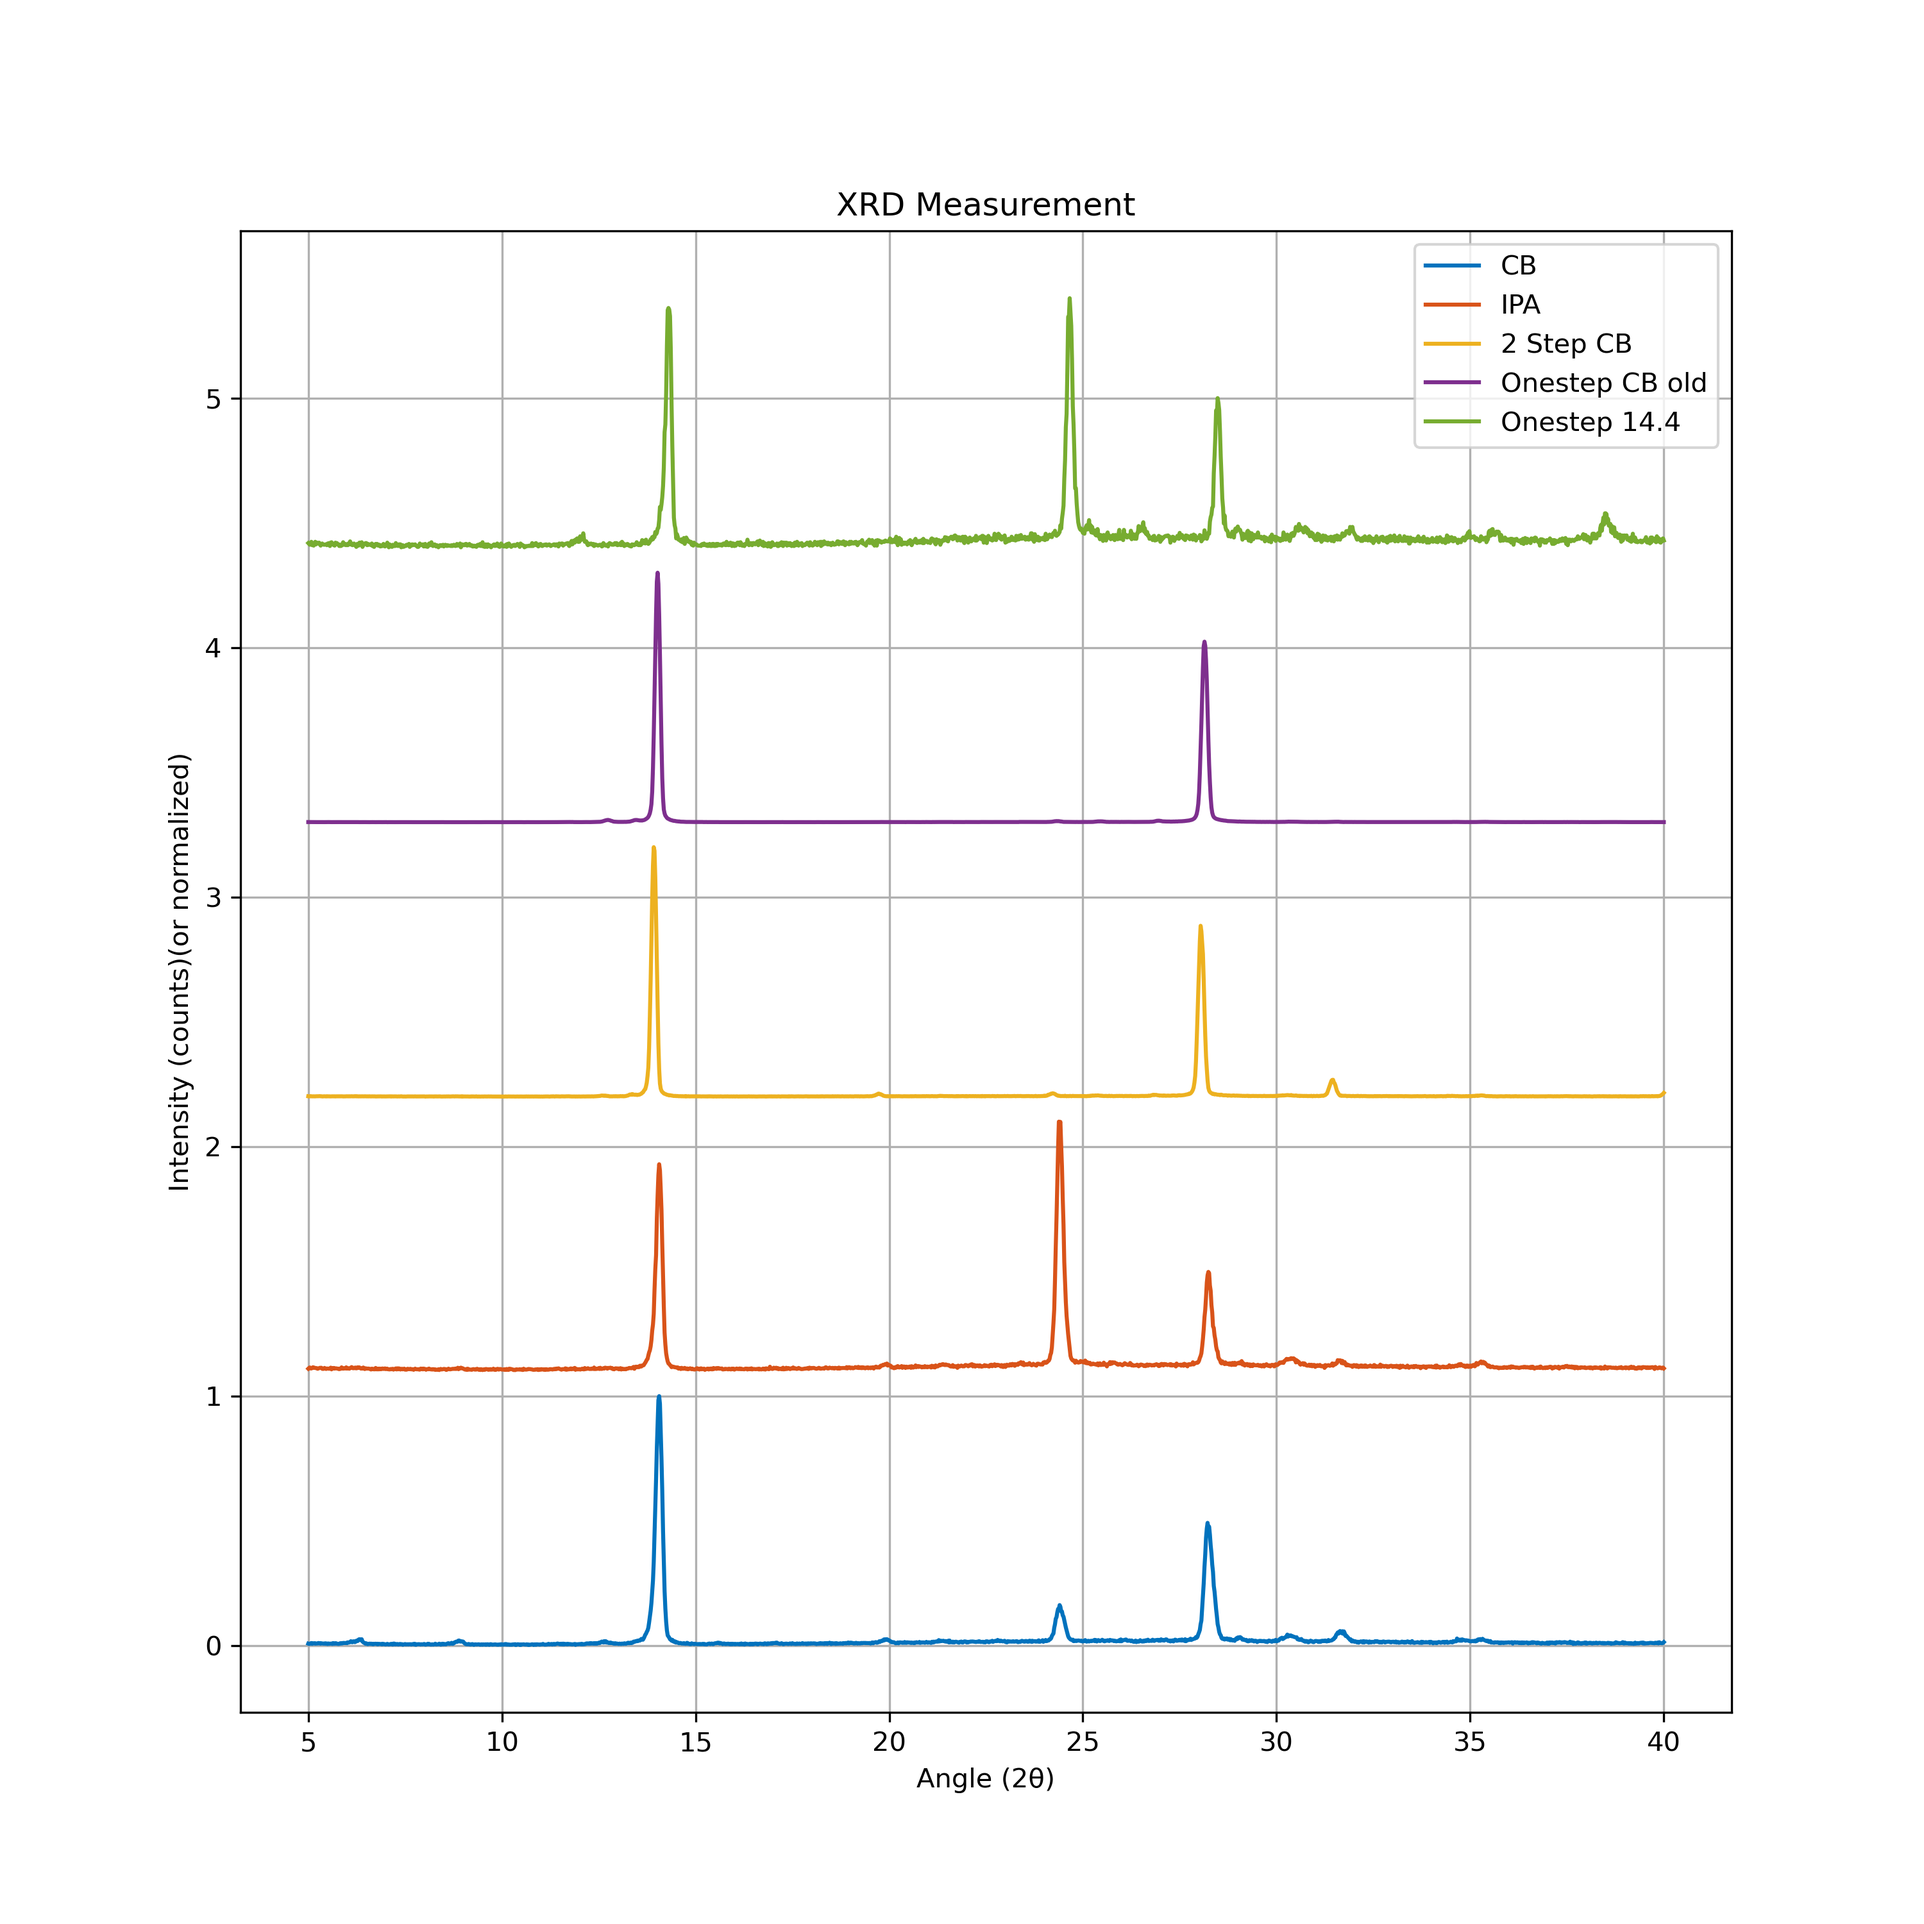
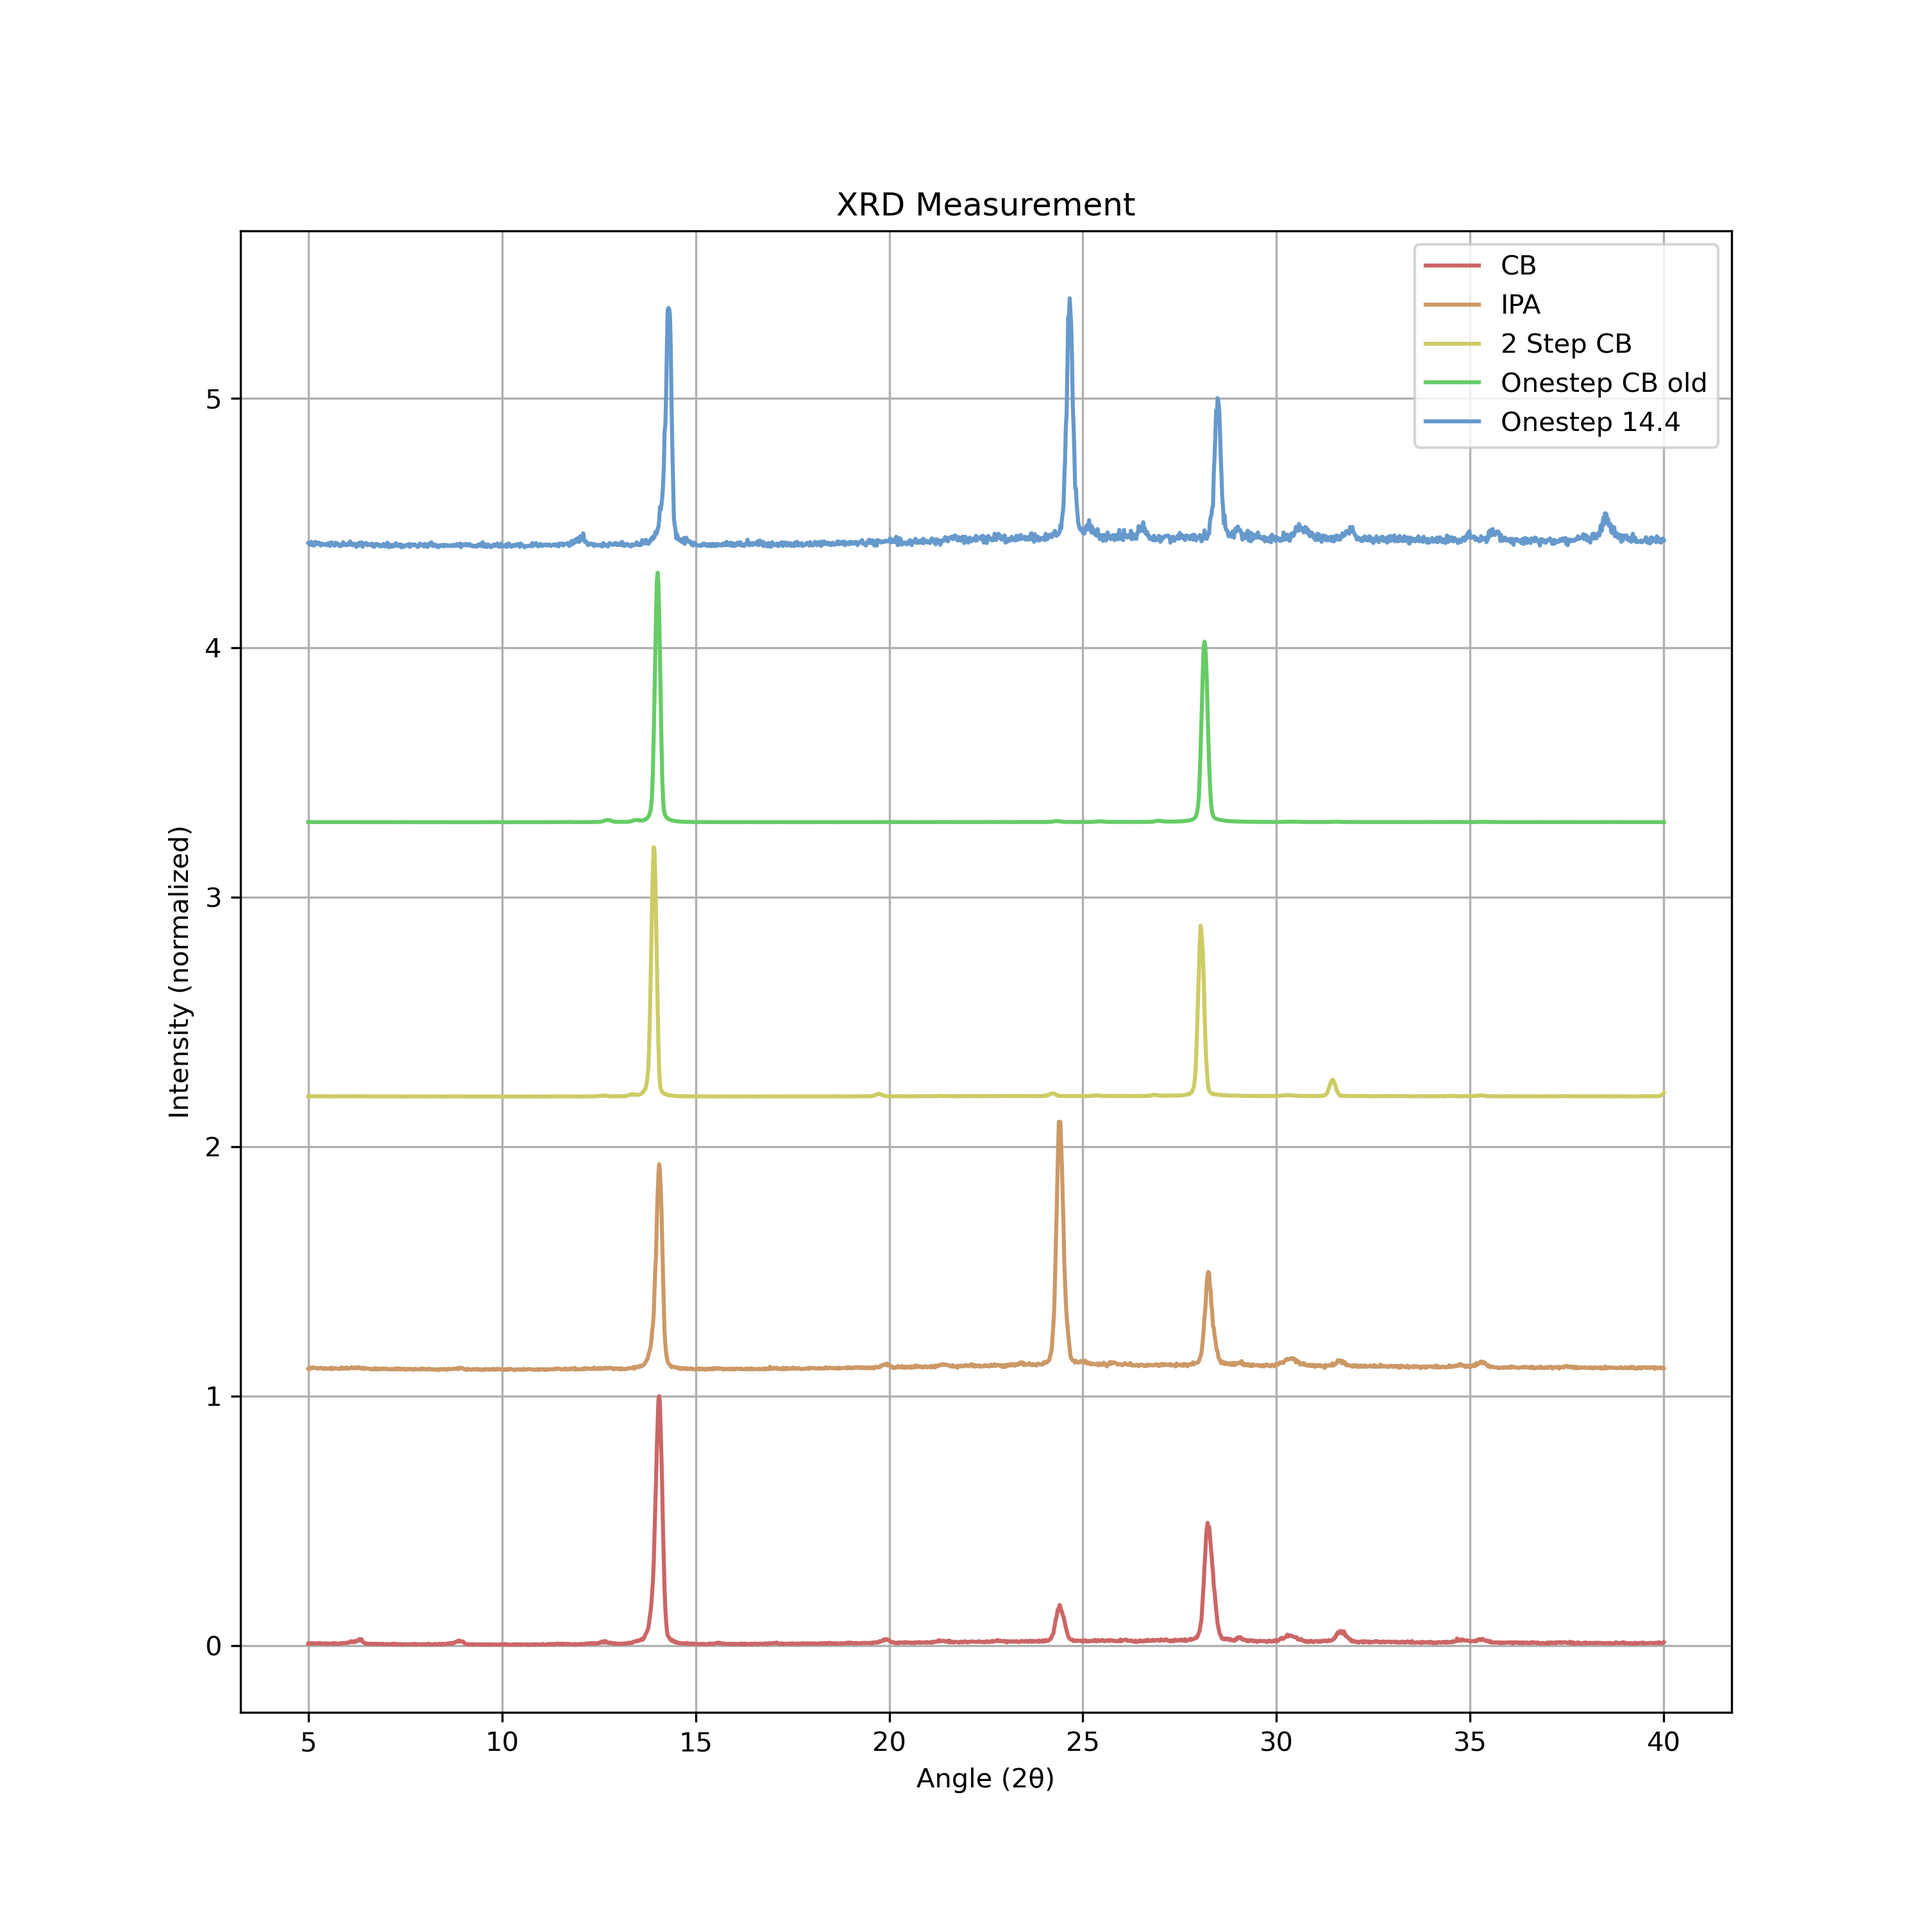
Improved the SolSim analyzer, which could mimic the ts.py
Box plot and histogram are coming soon

diff --git a/plot_module/solsim_analyzer.py b/plot_module/solsim_analyzer.py
@@ -3,6 +3,7 @@ import numpy as np
 import matplotlib.pyplot as plt
 import os
 from colors import color
+import pandas as pd
 
 class solarSimulator:
     def __init__(self, filePath=None, folderPath = None, CSV = None):
@@ -10,53 +11,154 @@ class solarSimulator:
         self.folderPath = folderPath
         self.CSV = CSV
         self.data = None
-        self.dataT = None
+        self.currents = None
+        self.CDC = 1000/0.0966
+        self.voltages = None
+        self.powers = None
+        self.times = None
+        #self.counter = 0
         self.dat_files = None
-        self.counter = 0
+        self.labels = []
+        #Important Points in solSim:
+        self.Voc = None
+        self.Isc = None
+        self.I_MPP = None
+        self.V_MPP = None
+        self.FF = None
+        self.PCE = None
+        self.intensity = 100*36.5/47.98 #Unit: mW/cm^2
+
+    def calcIsc(self, voltage, current):
+        idx = np.argmin(np.abs(voltage))
+        Isc = current[idx]
+        return Isc
+    
+    def calcVoc(self, voltage, current):
+        idx = np.argmin(np.abs(current))
+        Voc = voltage[idx]
+        return Voc
+
+    def calcMPP(self, current, voltage):
+        Isc = self.calcIsc(voltage = voltage, current = current)
+        Voc = self.calcVoc(voltage=voltage, current=current)
+        mask = (current >=0 ) & (current <= Isc)
+        V = voltage[mask]
+        I = current[mask]
+        P = V * I
+        idx = np.argmax(np.abs(P))
+        I_MPP = I[idx] #Unit: Current density mA/cm^2
+        V_MPP = V[idx] #Unit: V
+        P_MPP = P[idx] #mW/cm^2
+        FF = np.abs((I_MPP*V_MPP)/(Isc*Voc))
+        PCE = np.abs(P_MPP/self.intensity)*100
+        return I_MPP, V_MPP, FF, PCE
 
     def loadFileData(self): #Automatically detect the file type!
         files = pd.read_csv(self.filePath, skiprows=range(0, 21), header=None, names=['voltage', 'current', 'power', 'time'], sep='\s+')
-        data = np.asarray(files)
-        data = data.T
+        self.data = np.asarray(files)
+        self.data = self.data.T
+        self.voltages = self.data[0]
+        self.currents = self.data[1]* self.CDC
+        self.powers = self.data[2]
+        self.times = self.data[3]
+        self.Isc = self.calcIsc(voltage = self.voltages, current = self.currents)
+        self.Voc = self.calcVoc(voltage=self.voltages, current = self.currents)
+        self.I_MPP, self.V_MPP, self.FF, self.PCE = self.calcMPP(voltage=self.voltages, current = self.currents)
+        self.labels = self.filePath
 
     def loadFolderData(self):
+        #if self.folderPath is None:
+        #    self.loadFileData()
         self.dat_files = [f for f in os.listdir(self.folderPath) if f.endswith('.dat')]
+        self.Isc, self.Voc, self.I_MPP, self.V_MPP, self.FF, self.PCE = [[] for _ in range(6)]
+        for name in self.dat_files:
+            file = os.path.join(self.folderPath, name)
+            labelName = name
+            files = pd.read_csv(file, skiprows=range(0, 21), header=None, names=['voltage', 'current', 'power', 'time'], sep='\s+')
+            if self.currents is None:
+                self.data = np.asarray(files)
+                self.data = self.data.T
+                self.voltages = self.data[0].reshape(1, -1)
+                self.currents = self.data[1].reshape(1, -1) * self.CDC # Convert the current to current density
+                self.powers = self.data[2].reshape(1, -1)
+                self.times = self.data[3].reshape(1, -1)
+                self.labels.append (labelName)
+                #Calculations:                
+                Isc = self.calcIsc(voltage = self.data[0], current=self.data[1])
+                Voc = self.calcVoc(voltage = self.data[0], current=self.data[1])                   
+                I_MPP, V_MPP, FF, PCE = self.calcMPP(voltage = self.data[0], current=self.data[1]*self.CDC)
+            else:
+                data = np.asarray(files)
+                data = data.T
+                
+                self.data = np.vstack((self.data, data))
+                self.voltages = np.vstack((self.voltages, data[0]))
+                self.currents = np.vstack((self.currents, data[1]*self.CDC))
+                self.powers = np.vstack((self.powers, data[2]))
+                self.times = np.vstack((self.times, data[3]))
+                self.labels.append(labelName)
+                #Calculation for cell data:
+                Isc = self.calcIsc(voltage = data[0], current=data[1]*self.CDC)
+                Voc = self.calcVoc(voltage = data[0], current=data[1]*self.CDC)
+                I_MPP, V_MPP, FF, PCE = self.calcMPP(voltage = data[0], current=data[1]*self.CDC)
+            self.Isc.append(Isc)
+            self.Voc.append(Voc)
+            self.I_MPP.append(I_MPP)
+            self.V_MPP.append(V_MPP)
+            self.FF.append(FF)
+            self.PCE.append(PCE)
 
-    def IVCurve(self, saveName = "saveFig.png", colorMode = color.matlab()):
+    def logData(self):
+        fileName = "result_log.csv"
+        dir = self.folderPath
+        target = os.path.join(dir, fileName)
+        data = {
+            'Cell Label':  self.labels,
+            'Isc [mA/cm2]':    self.Isc,
+            'Voc [V]':    self.Voc,
+            'I_MPP':  self.I_MPP,
+            'V_MPP':  self.V_MPP,
+            'FF':     self.FF,
+            'PCE':    self.PCE
+        }
+        df = pd.DataFrame(data)
+        df.to_csv(target, index=False)
+
+    def IVCurve(self, saveName = "saveFig.png", colorMode = "red"):
         voltage = self.data[0]
-        current = -self.data[1]
+        current = self.data[1]
         power = self.data[2]
         time = self.data[3]
         colorUsed = colorMode
         plt.figure(figsize=(7, 5), dpi = 300)
-        plt.plot(voltage, current*1000, color = colorUsed)
+        plt.plot(voltage, current*1000, color = colorMode)
         plt.ylabel("Current [mA]")
         plt.xlabel("Voltage [V]")
         plt.grid()
         plt.savefig(saveName)
         plt.close()
 
-    def multiIVCurve(self, colorMode = color.matlab(multiData=True)):
+    def IVMultiPlot(self, colorMode = None, saveName = "multiIV.png"):
         plt.figure(figsize=(9, 6), dpi = 300)
-        for file_name in self.dat_files:
-            full_path = os.path.join(self.folderPath, file_name)
-            #Load the single data
-            voltage = self.dataT[0]
-            current = -self.dataT[1]
-            power = self.dataT[2]
-            time = self.dataT[3]
-            label = os.path.splitext(file_name)[0]
-            plt.plot(voltage, current * 1000, color = colorMode[self.counter], label=label)
-            self.counter += 1
-        self.counter = 0
-        plt.ylabel("Current [mA]")
+        for i in range(0, self.voltages.shape[0]):
+            voltage = self.voltages[i]
+            #print("The type of it", type(voltage)) 
+            current = self.currents[i]
+            #current = current.tolist()
+            #voltage = voltage.tolist()
+            lab = self.labels[i]
+            plt.plot(voltage, current, label=lab) #mA? 
+        #self.counter = 0
+        plt.ylabel("Current Density [mA/cm2]")#Too big!
         plt.xlabel("Voltage [V]")
+        #plt.ylim(-10, 20)
+        #plt.xlim(-0.121, -0.8)
         plt.legend()
         plt.title("IV-Curve of the Samples")
         plt.grid()
         plt.tight_layout()
-        #plt.savefig(os.path.join(filePath, "IV_combined_plot.png"))
-        plt.show()
+        plt.savefig(saveName)
+        #plt.show()
         plt.close()
 
     def HistoPlot(self):
@@ -64,3 +166,21 @@ class solarSimulator:
 
     def boxPlot(self):
         pass
+
+if __name__ == "__main__":
+    from colors import color
+    figColor = color.matlab()
+    file = '/Users/ruodongyang/Documents/Resilio_Sync/TUM Master Physik/Pervoskite Space(Master)/Data/SolSim/21_05_2025_IPATest/IPARPM5_1_px5_Light_forward_0.dat'
+    folder = '/Users/ruodongyang/Documents/Resilio_Sync/TUM Master Physik/Pervoskite Space(Master)/Data/SolSim/21_05_2025_IPATest/'
+    analyzer = solarSimulator(filePath = None, folderPath=folder)
+    #analyzer.loadFileData()
+    analyzer.loadFolderData()
+    #print(analyzer.current.shape)
+    #print(analyzer.voltages)
+    #print("Cell Label:", analyzer.labels)
+    print(analyzer.voltages.shape)
+    print(type(analyzer.voltages))
+    print("Isc:", analyzer.Isc, "Voc:", analyzer.Voc, "VMPP:", analyzer.V_MPP, "IMPP:",analyzer.I_MPP, "FF:", analyzer.FF, "PCE:", analyzer.PCE)
+    analyzer.logData()
+    analyzer.IVMultiPlot(saveName='/Users/ruodongyang/Documents/Resilio_Sync/TUM Master Physik/Pervoskite Space(Master)/Data/SolSim/21_05_2025_IPATest/BestCells/IV_Multi3.png')
+    #analyzer.IVCurve(saveName='/Users/ruodongyang/Documents/Resilio_Sync/TUM Master Physik/Pervoskite Space(Master)/Data/SolSim/21_05_2025_IPATest/BestCells/IV_Single.png')

diff --git a/multXRDTest.py b/multXRDTest.py
@@ -2,11 +2,12 @@ from plot_module.xrd_analyzer import XRDAnalyzer
 from plot_module.colors import color
 analyzer = XRDAnalyzer()
 figColor = color.matlab(multiData=True)
-analyzer.import_xrd_data(pathName='/Users/ruodongyang/Documents/Resilio_Sync/TUM Master Physik/Pervoskite Space(Master)/Data/XRD/XRD05152025/CB/CB.txt', labelName="CB")
-analyzer.import_xrd_data(pathName='/Users/ruodongyang/Documents/Resilio_Sync/TUM Master Physik/Pervoskite Space(Master)/Data/XRD/XRD05152025/IPA/IPA.txt', labelName="IPA")
-analyzer.import_xrd_data(pathName='/Users/ruodongyang/Documents/Resilio_Sync/TUM Master Physik/Pervoskite Space(Master)/Data/XRD/28022025/2StepPerovskite.txt', labelName="2 Step CB")
-analyzer.import_xrd_data(pathName='/Users/ruodongyang/Documents/Resilio_Sync/TUM Master Physik/Pervoskite Space(Master)/Data/XRD/28022025/1StepPerovskite.txt', labelName="Onestep CB old")
-analyzer.import_xrd_data(pathName='/Users/ruodongyang/Documents/Resilio_Sync/TUM Master Physik/Pervoskite Space(Master)/Data/XRD/14042025/Result.txt', labelName="Onestep 14.4")
+analyzer.import_xrd_data(pathName='/Users/ruodongyang/Documents/Resilio_Sync/TUM Master Physik/Pervoskite Space(Master)/Data/XRD/21052025/20sIPA.txt', labelName="20s_IPA")
+analyzer.import_xrd_data(pathName='/Users/ruodongyang/Documents/Resilio_Sync/TUM Master Physik/Pervoskite Space(Master)/Data/XRD/21052025/25sCB.txt', labelName="25s_CB")
+analyzer.import_xrd_data(pathName='/Users/ruodongyang/Documents/Resilio_Sync/TUM Master Physik/Pervoskite Space(Master)/Data/XRD/21052025/25sIPA.txt', labelName="25sIPA")
+analyzer.import_xrd_data(pathName='/Users/ruodongyang/Documents/Resilio_Sync/TUM Master Physik/Pervoskite Space(Master)/Data/XRD/21052025/R5.txt', labelName="RPM5000_IPA")
+analyzer.import_xrd_data(pathName='/Users/ruodongyang/Documents/Resilio_Sync/TUM Master Physik/Pervoskite Space(Master)/Data/XRD/XRD05152025/IPA/IPA.txt', labelName="IPA_Old")
+analyzer.import_vesta_data(vestaPath='/Users/ruodongyang/Documents/Resilio_Sync/TUM Master Physik/Pervoskite Space(Master)/Data/XRD/Material Project/FAPbI3.xy')
 print(analyzer.xrd_data, analyzer.xrd_data.shape)
 print(figColor)
-analyzer.multiXRD(graphColor=figColor)
+analyzer.multiXRD(graphColor=figColor, savePath='/Users/ruodongyang/Documents/Resilio_Sync/TUM Master Physik/Pervoskite Space(Master)/Data/XRD/21052025/MultiPlot1.png')

diff --git a/plot_module/xrd_analyzer.py b/plot_module/xrd_analyzer.py
@@ -129,10 +129,6 @@ class XRDAnalyzer:
         print("The 2θ peak positions are:", angles)
         return angles
 
-    def Normalize(self):
-        ##data == xrd or vesta
-        pass
-
     def getFWHM(self):
         pass
 
@@ -177,8 +173,10 @@ class XRDAnalyzer:
             angle = self.angles[i]
             intensity = self.intensities[i] + 1.1 * i
             plt.plot(angle, intensity, label = self.label[i], color = graphColor[i])
+        #Add sth to plot the simulated vesta peaks
+        
         plt.xlabel("Angle (2θ)")
-        plt.ylabel("Intensity (counts)(or normalized)")
+        plt.ylabel("Intensity (normalized)")
         plt.title("XRD Measurement")
         plt.legend()
         plt.grid()
@@ -189,10 +187,6 @@ class XRDAnalyzer:
         angles = self.getPeakAngles()
         np.savetxt(fname = file_path, X=angles, delimiter=",")
         self.peakAngles = angles
-
-    def storePlots(self, extraData):
-        #Store extra data in the xrdData
-        dataExtra = self.loadVestaData(extraData)
 
 if __name__ == "__main__":
     from colors import *
